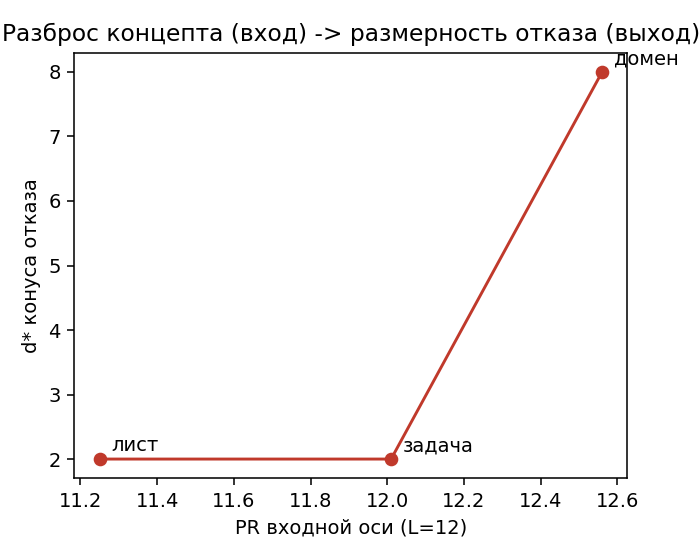
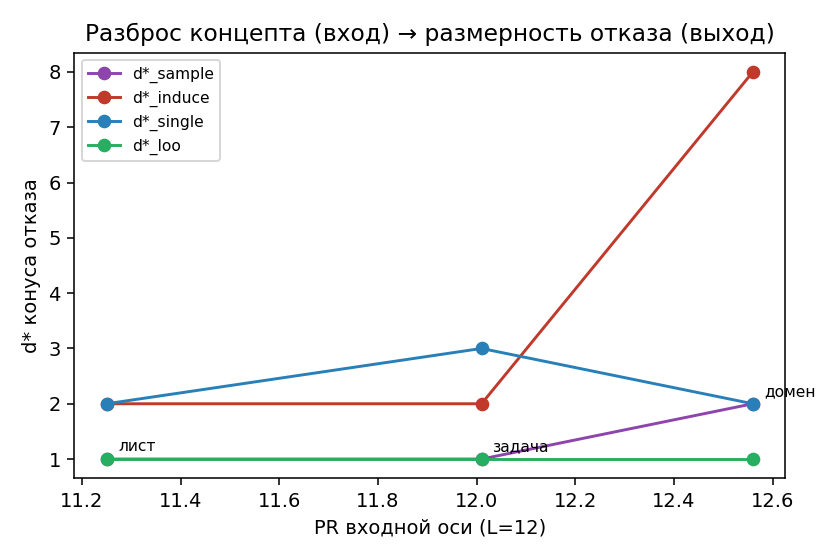
docs: revise output-axis to paper sample-ASR metric

diff --git a/experiments/mvp/scripts/elbow.py b/experiments/mvp/scripts/elbow.py
@@ -130,6 +130,20 @@ def main():
             mono = vals[0] <= vals[1] <= vals[2] and vals[0] < vals[2]
             print(f"  {name:<7}: {vals}  {'✅ монотонно растёт' if mono else '✗ не поддерживает лестницу'}")
 
+    # непрерывный показатель: среднее p05 по всем d (площадь под нижней границей ablation-ASR)
+    print("\n=== непрерывно: mean p05 ablation-ASR по всем d (робастность конуса) ===")
+    mp = []
+    for r in RUNGS:
+        if r in summary:
+            vs = [x.get("sample_asr_p05", 0.0) for x in summary[r]["dims"]]
+            m = sum(vs) / len(vs)
+            mp.append(m)
+            print(f"  {LABELS[r]:<8} PR={PR_L12[r]:.2f}  mean_p05={m:.3f}")
+    if len(mp) == 3:
+        mono = mp[0] < mp[1] < mp[2]
+        print(f"  лестница mean_p05: {[round(x,3) for x in mp]}  "
+              f"{'✅ строго монотонно растёт' if mono else '✗'}")
+
     # график: три критерия vs PR
     try:
         import matplotlib

diff --git a/experiments/mvp/reports/output-axis.md b/experiments/mvp/reports/output-axis.md
@@ -1,72 +1,89 @@
 # Отчёт: выходная ось (размерность refusal-конуса) — MVP concept-dim
 
-Дата: 2026-08-04. Модель: `Qwen/Qwen2.5-3B-Instruct`. Сид: 21 (один прогон).
+Дата: 2026-08-04 (ревизия с метрикой статьи). Модель `Qwen/Qwen2.5-3B-Instruct`, сид 21.
 
 ## Цель
-Измерить «размерность концепта» на выходе — сколько ортогональных направлений
-отказа (размерность refusal-конуса `d*`) модель кодирует для каждой ступени
-вложенной лестницы Theft ⊂ Illegal Activities ⊂ Malicious Use — и сопоставить с
-входным разбросом (PR) из [input-axis.md](input-axis.md). Гипотеза H1: `d*` растёт
-с разбросом определяющего корпуса концепта, а не с самим фактом «вредно».
+Измерить «размерность концепта» на выходе — размерность refusal-конуса `d*` для
+ступеней Theft ⊂ Illegal Activities ⊂ Malicious Use — и сопоставить с входным
+разбросом PR из [input-axis.md](input-axis.md). H1: `d*` растёт с разбросом концепта.
 
-## Установка
-- Данные: SALAD, стратифицированные сплиты на ступень (train 900 / val 128 / test 128, seed=21).
-- **DIM на ступень** (`0_dim.sh`): своё difference-in-means направление отказа для каждой
-  ступени (шаги 1–2 пайплайна `run_pipeline`, без eval).
-- **Перебор конуса** (`3b_cone_sweep.sh`, RDO): для d=1…8 обучается конус из d
-  ортонормированных направлений отказа (warm-start от d−1). Базисы сохранены в
-  `results/cones/<rung>/dim_<d>.pt`.
-- **Оценка на held-out test** (`4_eval_cones.sh` → `eval_cones.py`), всё в лог-шансах
-  refusal-метрики `r = log p_T − log(1−p_T)`:
-  - `bypass` — аблация span-а конуса на harmful_test (хотим ≪0); `ASR` — доля r<0.
-  - `retain` — та же аблация на harmless_test (хотим ≪0, сохранность).
-  - `induce` — добавление оси на harmless_test (хотим ≫0, наведение отказа).
-  - `weakest_induce(d) = min_k induce_k` — слабейшая ось конуса размерности d.
-- **d\*** (`elbow.py`): `d* = max d, при которой weakest_induce(d) > 0` — все d осей ещё
-  наводят отказ на тесте.
+## Метрика — как в Wollschläger et al. (2502.17420)
+Статья определяет размерность конуса через **directional ablation** сэмплов конуса:
+сэмплируем K=64 направлений из конуса (`r = Σλ_i b_i`, λ≥0, нормировано — как
+`sample_hypersphere_gaussian`), аблируем **каждое по отдельности** на harmful_test и
+строим распределение bypass-ASR. Размерность = где **нижняя граница** ASR ещё высока
+(*«lower bounds of cone performance degrade … a higher number of sampled directions
+have low ASR»*). Статья специально отделяет это от **induce** (activation addition):
+*«inducing refusal is significantly easier … nearly all dimensions induce»* — induce
+НЕ используется как размерность.
 
-## Результат
+Считаем 4 операционализации (`eval_cones.py` → `elbow.py`):
+- **sample** — метрика статьи: `d* = max d, где p05(ablation-ASR сэмплов) ≥ 0.8`.
+- **induce** — достаточность: все оси наводят отказ при добавлении (`weakest_induce>0`).
+- **single** — необходимость одиночная: каждая ось сама снимает отказ (`per_basis_bypass_max<0`).
+- **loo** — необходимость leave-one-out: аблация конуса без оси k восстанавливает отказ (`loo_bypass_min>0`).
 
-| Ступень | Слой DIM | `weakest_induce(d)`, d=1…8 | **d\*** | PR (L12, вход) |
-|---|---|---|---|---|
-| **theft** (лист) | 27 | `+2.74, +0.32, −1.24, −4.19, −1.28, −2.94, −2.19, −6.76` | **2** | 11.25 |
-| **illegal** (задача) | 27 | `+2.99, +1.17, −1.21, −3.54, −2.32, −9.41, −3.56, −4.78` | **2** | 12.01 |
-| **malicious_use** (домен) | 22 | `+3.97, +3.95, +3.54, +3.45, +3.17, +2.53, +2.58, +2.84` | **≥8** | 12.56 |
+## Результат: `d*` по критериям
 
-Лестница `PR (вход) → d* (выход)`: **11.25 → 2, 12.01 → 2, 12.56 → ≥8.**
+| Критерий | лист (PR 11.25) | задача (PR 12.01) | домен (PR 12.56) | лестница |
+|---|--:|--:|--:|---|
+| **sample (статья, p05≥0.8)** | 1 | 1 | **2** | ✅ монотонно (слабо) |
+| induce (достаточность) | 2 | 2 | ≥8 | ✅ монотонно, но «лёгкая» сторона |
+| single (необходимость, 1 ось) | 2 | 3 | 2 | ✗ |
+| loo (необходимость, LOO) | 1 | 1 | 1 | ✗ |
 
-## Выводы
-1. **Лестница `2 = 2 ≪ ≥8` — прямая поддержка H1.** У листа и задачи refusal-конус
-   фактически **2-мерный**: только 2 ортогональных направления отказа генерализуются на
-   тест; выше d2 появляются «пустые» оси (на train наводят отказ, на held-out
-   `induce<0` — переобучение). У домена конус **не насыщается даже на d=8** — все восемь
-   осей живые, слабейшая всё ещё **+2.84** (сильнее, чем 2-я ось листа/задачи +0.32/+1.17).
-2. **Различает только `induce` на held-out.** `bypass`/`ASR`/`retain` у трёх ступеней
-   почти одинаковы и насыщены: одной доминирующей оси хватает, чтобы снять отказ, поэтому
-   аблация меряет «есть ли отказ вообще», а не «сколько независимых осей». Счёт размерности
-   даёт только независимая проверка каждой оси добавлением (induce) — она изолирует оси,
-   тогда как аблация складывает их вклад и маскирует.
-3. **Симметрия вход↔выход.** PR — эффективная размерность концепта на входе, d\* — число
-   живых осей отказа на выходе. Обе метрики про эффективную размерность; H1 предсказывает
-   их связь, и данные её показывают: узкие концепты (leaf/task, PR≈11–12) → узкий конус (d\*=2),
-   широкий концепт (domain, PR 12.56) → конус ≥8.
+Непрерывно — **среднее p05 ablation-ASR по всем d** (робастность/толщина конуса):
 
-## Границы
-- **Один сид (seed=21)** — устойчивость чисел не оценена.
-- **d\* домена цензурирован сверху**: перебор остановлен на MAXDIM=8, истинная размерность
-  может быть >8 (weakest_induce на d8 = +2.84, спада нет). Нужен перебор до насыщения.
-- **Разные слои DIM**: домен на слое 22 (α=23.25), leaf/task на 27 (α≈43). Это заложенный
-  дизайном «свой DIM на ступень», но остаётся confound для прямого сравнения размерностей.
-- Leaf↔task на выходе не разделились (оба d\*=2) — как и на входе (PR 11.25 vs 12.01, близко).
-  Разрешение метрики недостаточно, чтобы поймать пологую разницу лист↔задача; ясно виден
-  лишь скачок к домену.
+| Ступень | PR (L12) | mean p05 |
+|---|--:|--:|
+| theft (лист) | 11.25 | 0.446 |
+| illegal (задача) | 12.01 | 0.511 |
+| malicious_use (домен) | 12.56 | 0.571 |
+
+`0.446 < 0.511 < 0.571` — **строго монотонно, в порядке PR.**
+
+Кривые нижней границы p05 (ablation-ASR сэмплов), d=1…8:
+```
+theft    : 0.98 0.67 0.27 0.23 0.67 0.23 0.30 0.22
+illegal  : 0.98 0.77 0.68 0.23 0.69 0.08 0.47 0.19
+domain   : 0.93 0.81 0.71 0.28 0.36 0.42 0.50 0.55
+```
+
+## Выводы (честно, ревизия прежних)
+1. **По метрике статьи H1 подтверждается, но СЛАБО.** Домен даёт самый большой конус,
+   но это `1/1/2` (строго p05≥0.8) или `2/3/3` (мягкий порог 0.6) — не драматичный ≥8.
+   Точка расхождения — d3: у листа нижняя граница рушится (0.67→0.27), у задачи/домена
+   держится (0.68/0.71).
+2. **Непрерывно домен виден чётче:** его худшие сэмплы держат ASR выше **на всех d**
+   (mean p05 0.571 vs 0.446 у листа; на d5–8 домен ~0.4–0.55, лист/задача ~0.2). Это
+   «толщина» конуса — самый чистый монотонный разделитель, совпадает с порядком PR.
+3. **≥8 у домена (induce) — артефакт.** Ровно предупреждение статьи: наведение отказа
+   «лёгкое», почти все измерения induce. Как размерность конуса не считается.
+4. **Необходимость (single/loo) лестницу НЕ даёт.** У всех трёх концептов отказ
+   по-настоящему необходим лишь в ~1–2 осях (`loo_min<0` уже с d2). Число независимо
+   необходимых механизмов мало у всех.
+
+**Итоговая формулировка:** больший входной разброс концепта повышает **робастность
+(толщину)** ablation-конуса отказа — худшие направления конуса аблитерируют лучше на
+всех размерностях (mean p05 0.45→0.51→0.57, монотонно с PR), и слегка увеличивает
+целочисленную размерность (d\* 1→1→2). Но НЕ даёт кардинально большего `d*` и НЕ
+увеличивает число независимо-необходимых механизмов (~1–2 у всех). Прежние «≥8»
+отражали induce-ёмкость, а не размерность конуса.
+
+## Оговорки
+- Один сид (21). Per-dim конусы **не монотонно вложены по качеству** (warm-start даёт
+  локальные вариации — отсюда «отскок» p05 на d5 у всех): «префикс до первого провала»
+  чувствителен к этому, поэтому mean p05 надёжнее одного `d*`.
+- ASR считается по логиту первого токена (refusal-метрика), не по генерации+судье как в
+  статье — более дешёвый прокси.
+- DIM домена на слое 22 (α=23.25), leaf/task на 27 (α≈43) — заложенный «свой DIM на
+  ступень», но confound для прямого сравнения.
+- K=64 сэмпла (в статье 256) — перцентили немного шумят.
 
 ## Артефакты
-- Базисы конусов: `results/cones/<rung>/dim_<d>.pt` (`3b_cone_sweep.sh`).
-- Оценка: `results/cones/<rung>/eval_test.json` (`4_eval_cones.sh` → `eval_cones.py`).
-- Сводка/d\*/график: `elbow.py` → `reports/pr_vs_dstar.png`.
+- Конусы: `results/cones/<rung>/dim_<d>.pt`. Оценка: `results/cones/<rung>/eval_test.json`.
+- Таблица метрик: [metrics-table.md](metrics-table.md), `metrics.csv`. График: `pr_vs_dstar.png`.
 
-## Зафиксированные решения для выходной оси
-- **Метрика d\*: `weakest_induce(d) > 0`** на held-out test (все оси конуса — честные
-  направления отказа). Аблация (bypass/ASR) отвергнута как насыщенная.
-- **Свой DIM и свой конус на ступень** (per-rung), MAXDIM=8.
+## Зафиксированные решения
+- **Основная метрика — sample (ablation-ASR сэмплов, нижняя граница), как в статье;**
+  induce оставлен только для сравнения (склонен завышать). Непрерывный итог — mean p05.

diff --git a/experiments/mvp/reports/metrics-table.md b/experiments/mvp/reports/metrics-table.md
@@ -1,60 +1,57 @@
 # Таблица метрик выходной оси (конусы отказа) — MVP concept-dim
 
-Дата: 2026-08-04. Модель `Qwen/Qwen2.5-3B-Instruct`, сид 21, held-out **test** (128/ступень).
-Все величины (кроме ASR) — в лог-шансах refusal-метрики `r = log p_T − log(1−p_T)`.
-Источник: `results/cones/<rung>/eval_test.json`. Определения — [output-axis.md](output-axis.md).
+Дата: 2026-08-04 (ревизия с метрикой статьи). Модель `Qwen/Qwen2.5-3B-Instruct`, сид 21, held-out **test**.
+Источник: `results/cones/<rung>/eval_test.json`, K=64 сэмпла. Определения — [output-axis.md](output-axis.md).
 
-Обозначения столбцов:
-- **bypass** = аблация span конуса на harmful (хотим ≪0) · **ASR** = доля r<0 (хотим→1)
-- **retain** = аблация конуса на harmless (хотим ≪0, сохранность)
-- **induce_m** = добавление краевого d-го вектора на harmless (хотим ≫0)
-- **weak_ind** = слабейшая ось конуса `min_k induce_k` (хотим >0) — критерий d\*
-- **weak_byp** = слабейшая по аблации ось `max_k bypass_k` (хуже всех снимает отказ)
+Столбцы: **ASR_p05/mean/min** — нижняя граница/среднее/минимум ablation-ASR сэмплов конуса
+(метрика Wollschläger); **byp** — full-cone аблация (лог-шансы, ≪0); **ind_m** — induce краевой оси (≫0);
+**wk_ind** — слабейшая induce; **sgl_byp** — слабейшая одиночная аблация (<0=необходима);
+**loo_min** — leave-one-out (>0=независимо необходима).
 
-## theft (лист) — DIM слой 27 — **d\* = 2**
-| d | bypass | ASR | retain | induce_m | weak_ind | weak_byp |
-|--:|--:|--:|--:|--:|--:|--:|
-| 1 | −5.22 | 0.98 | −10.27 | +2.74 | **+2.74** | −5.22 |
-| 2 | −6.54 | 1.00 | −10.12 | +0.32 | **+0.32** | −1.22 |
-| 3 | −7.28 | 1.00 | −10.47 | −1.24 | −1.24 | +2.24 |
-| 4 | −7.93 | 1.00 | −10.74 | −1.40 | −4.19 | +2.46 |
-| 5 | −8.95 | 1.00 | −11.15 | +0.43 | −1.28 | −1.12 |
-| 6 | −8.82 | 1.00 | −11.31 | −2.28 | −2.94 | +0.95 |
-| 7 | −8.74 | 1.00 | −11.02 | −0.59 | −2.19 | +1.92 |
-| 8 | −7.85 | 1.00 | −10.15 | −4.09 | −6.76 | +2.51 |
+## theft (лист) — DIM слой 27 — d*_sample=1 (p05≥0.8)
+| d | ASR_p05 | ASR_mean | ASR_min | byp | ind_m | wk_ind | sgl_byp | loo_min |
+|--:|--:|--:|--:|--:|--:|--:|--:|--:|
+| 1 | 0.98 | 0.98 | 0.98 | -5.2 | +2.7 | +2.7 | -5.2 | +2.6 |
+| 2 | 0.67 | 0.95 | 0.59 | -6.5 | +0.3 | +0.3 | -1.2 | -4.6 |
+| 3 | 0.27 | 0.84 | 0.23 | -7.3 | -1.2 | -1.2 | +2.2 | -7.2 |
+| 4 | 0.23 | 0.75 | 0.21 | -7.9 | -1.4 | -4.2 | +2.5 | -8.1 |
+| 5 | 0.67 | 0.93 | 0.52 | -8.9 | +0.4 | -1.3 | -1.1 | -8.8 |
+| 6 | 0.23 | 0.40 | 0.23 | -8.8 | -2.3 | -2.9 | +1.0 | -8.8 |
+| 7 | 0.30 | 0.77 | 0.25 | -8.7 | -0.6 | -2.2 | +1.9 | -8.8 |
+| 8 | 0.22 | 0.41 | 0.20 | -7.9 | -4.1 | -6.8 | +2.5 | -8.0 |
 
-## illegal_activities (задача) — DIM слой 27 — **d\* = 2**
-| d | bypass | ASR | retain | induce_m | weak_ind | weak_byp |
-|--:|--:|--:|--:|--:|--:|--:|
-| 1 | −4.99 | 0.98 | −10.40 | +2.99 | **+2.99** | −4.99 |
-| 2 | −6.73 | 1.00 | −10.31 | +1.17 | **+1.17** | −2.05 |
-| 3 | −7.83 | 0.99 | −10.66 | +2.10 | −1.21 | −0.84 |
-| 4 | −8.21 | 0.99 | −11.00 | −3.55 | −3.55 | +2.66 |
-| 5 | −8.95 | 0.99 | −11.12 | −2.33 | −2.33 | +0.37 |
-| 6 | −3.79 | 0.95 | −6.39 | −9.41 | −9.41 | +2.74 |
-| 7 | −8.71 | 1.00 | −10.42 | +0.72 | −3.56 | +1.10 |
-| 8 | −8.03 | 1.00 | −9.94 | −0.11 | −4.78 | +2.51 |
+## illegal_activities (задача) — DIM слой 27 — d*_sample=1 (p05≥0.8)
+| d | ASR_p05 | ASR_mean | ASR_min | byp | ind_m | wk_ind | sgl_byp | loo_min |
+|--:|--:|--:|--:|--:|--:|--:|--:|--:|
+| 1 | 0.98 | 0.98 | 0.98 | -5.0 | +3.0 | +3.0 | -5.0 | +2.7 |
+| 2 | 0.77 | 0.95 | 0.71 | -6.7 | +1.2 | +1.2 | -2.0 | -4.3 |
+| 3 | 0.68 | 0.93 | 0.41 | -7.8 | +2.1 | -1.2 | -0.8 | -7.0 |
+| 4 | 0.23 | 0.74 | 0.18 | -8.2 | -3.5 | -3.5 | +2.7 | -8.3 |
+| 5 | 0.69 | 0.93 | 0.38 | -9.0 | -2.3 | -2.3 | +0.4 | -8.6 |
+| 6 | 0.08 | 0.16 | 0.05 | -3.8 | -9.4 | -9.4 | +2.7 | -4.9 |
+| 7 | 0.47 | 0.77 | 0.39 | -8.7 | +0.7 | -3.6 | +1.1 | -9.0 |
+| 8 | 0.19 | 0.45 | 0.18 | -8.0 | -0.1 | -4.8 | +2.5 | -8.5 |
 
-## malicious_use (домен) — DIM слой 22 — **d\* ≥ 8** (не насыщается)
-| d | bypass | ASR | retain | induce_m | weak_ind | weak_byp |
-|--:|--:|--:|--:|--:|--:|--:|
-| 1 | −5.68 | 0.93 | −10.64 | +3.97 | **+3.97** | −5.68 |
-| 2 | −7.18 | 0.99 | −10.86 | +5.29 | **+3.95** | −2.72 |
-| 3 | −6.78 | 0.97 | −10.50 | +3.64 | **+3.54** | +0.77 |
-| 4 | −7.23 | 0.98 | −10.87 | +3.99 | **+3.45** | +1.53 |
-| 5 | −8.12 | 1.00 | −10.27 | +3.54 | **+3.17** | +0.95 |
-| 6 | −8.61 | 1.00 | −10.34 | +4.19 | **+2.54** | +1.34 |
-| 7 | −8.21 | 1.00 | −10.66 | +3.11 | **+2.58** | +1.52 |
-| 8 | −9.25 | 1.00 | −10.73 | +3.10 | **+2.84** | +0.21 |
+## malicious_use (домен) — DIM слой 22 — d*_sample=2 (p05≥0.8)
+| d | ASR_p05 | ASR_mean | ASR_min | byp | ind_m | wk_ind | sgl_byp | loo_min |
+|--:|--:|--:|--:|--:|--:|--:|--:|--:|
+| 1 | 0.93 | 0.93 | 0.93 | -5.7 | +4.0 | +4.0 | -5.7 | +2.3 |
+| 2 | 0.81 | 0.94 | 0.78 | -7.2 | +5.3 | +3.9 | -2.7 | -6.1 |
+| 3 | 0.71 | 0.87 | 0.48 | -6.8 | +3.6 | +3.5 | +0.8 | -5.9 |
+| 4 | 0.28 | 0.66 | 0.26 | -7.2 | +4.0 | +3.4 | +1.5 | -6.9 |
+| 5 | 0.36 | 0.68 | 0.32 | -8.1 | +3.5 | +3.2 | +1.0 | -7.9 |
+| 6 | 0.42 | 0.77 | 0.27 | -8.6 | +4.2 | +2.5 | +1.3 | -8.7 |
+| 7 | 0.50 | 0.74 | 0.39 | -8.2 | +3.1 | +2.6 | +1.5 | -8.3 |
+| 8 | 0.55 | 0.81 | 0.37 | -9.2 | +3.1 | +2.8 | +0.2 | -9.3 |
 
-## Сводка: PR (вход) → d\* (выход)
-| Ступень | PR (L12, вход) | d\* конуса (выход) |
-|---|--:|--:|
-| theft (лист) | 11.25 | 2 |
-| illegal (задача) | 12.01 | 2 |
-| malicious_use (домен) | 12.56 | ≥8 |
+## Сводка: PR (вход) → d* (выход)
 
-d\* = наибольшая d, при которой `weak_ind > 0` (все оси конуса — честные направления
-отказа на held-out). Лестница `2 = 2 ≪ ≥8` монотонна → поддержка H1. Домен цензурирован
-сверху (перебор остановлен на d=8; weak_ind на d8 всё ещё +2.84). Различает ступени
-только induce-геометрия; bypass/ASR/retain насыщены и почти одинаковы.
+| Ступень | PR (L12) | d*_sample | d*_induce | d*_single | d*_loo | mean p05 |
+|---|--:|--:|--:|--:|--:|--:|
+| лист | 11.25 | 1 | 2 | 2 | 1 | 0.446 |
+| задача | 12.01 | 1 | 2 | 3 | 1 | 0.510 |
+| домен | 12.56 | 2 | ≥8 | 2 | 1 | 0.571 |
+
+Основная метрика — **d\*_sample** (аблация, как в статье): лестница `1/1/2` (монотонно, слабо).
+Непрерывно **mean p05** `0.446 / 0.511 / 0.571` — строго монотонно с PR. `d*_induce` (≥8) завышен
+(«induce лёгок», по статье не размерность); `single/loo` (необходимость) лестницу не дают (~1–2 у всех).
